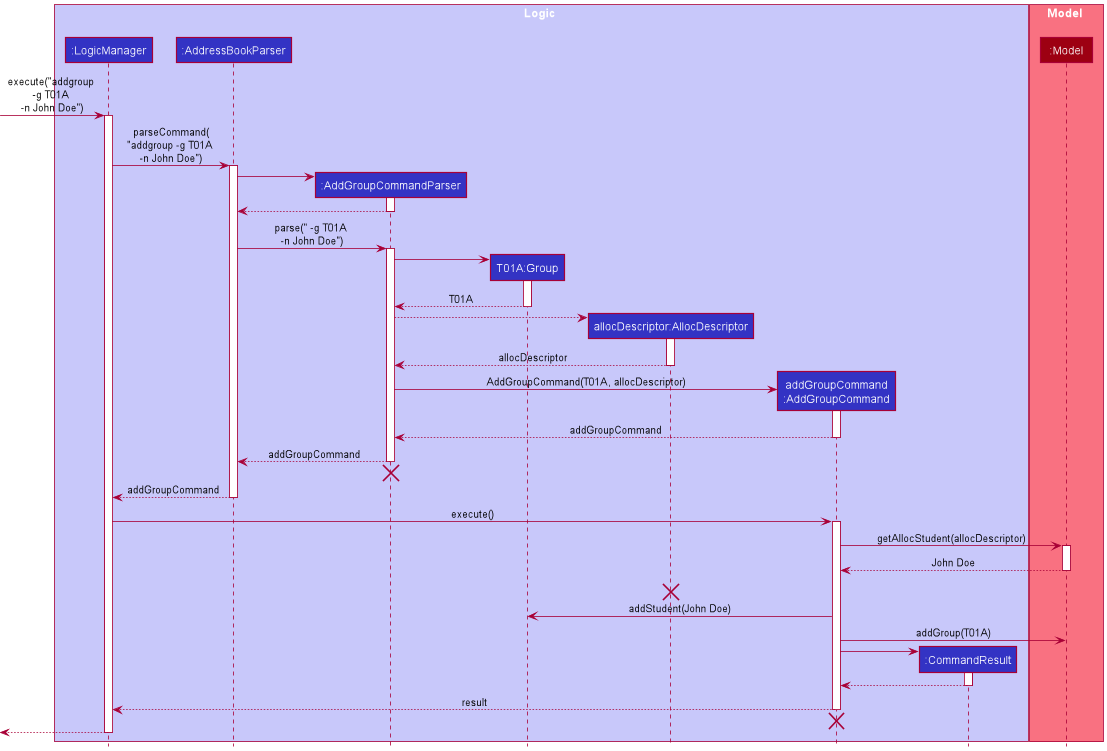
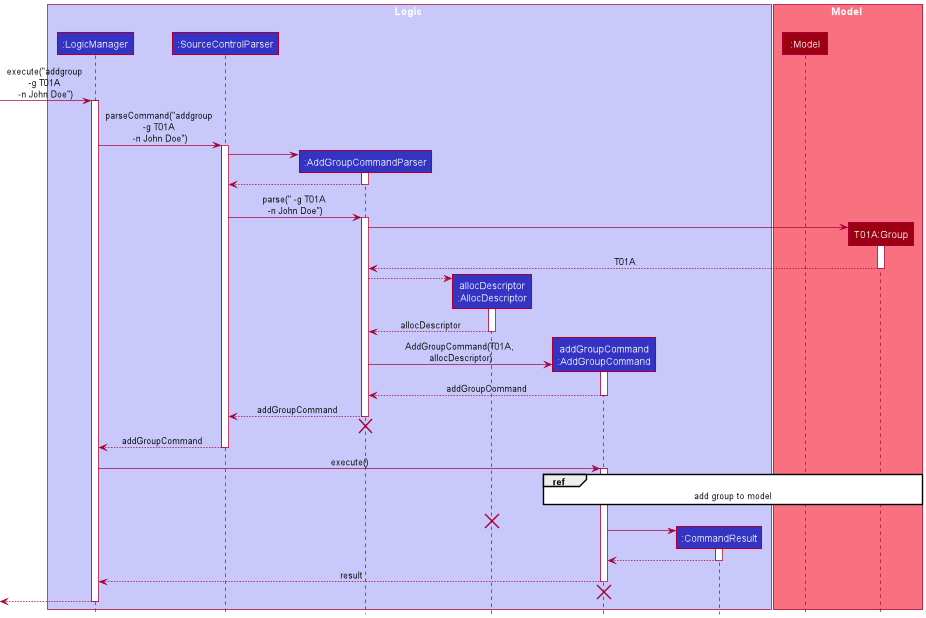
Split AddGroupSequenceDiagram

diff --git a/docs/DeveloperGuide.md b/docs/DeveloperGuide.md
@@ -245,6 +245,7 @@ The following activity diagrams summarizes what happens when a user executes a c
 The following sequence diagram summarizes what happens when the user inputs an add group command together with a student to be added:
 
 ![AddGroupSequenceDiagram](images/AddGroupSequenceDiagram.png)
+![AddGroupToModelSequenceDiagram](images/AddGroupToModelSequenceDiagram.png)
 
 ### Add Allocation : `addalloc`
 
